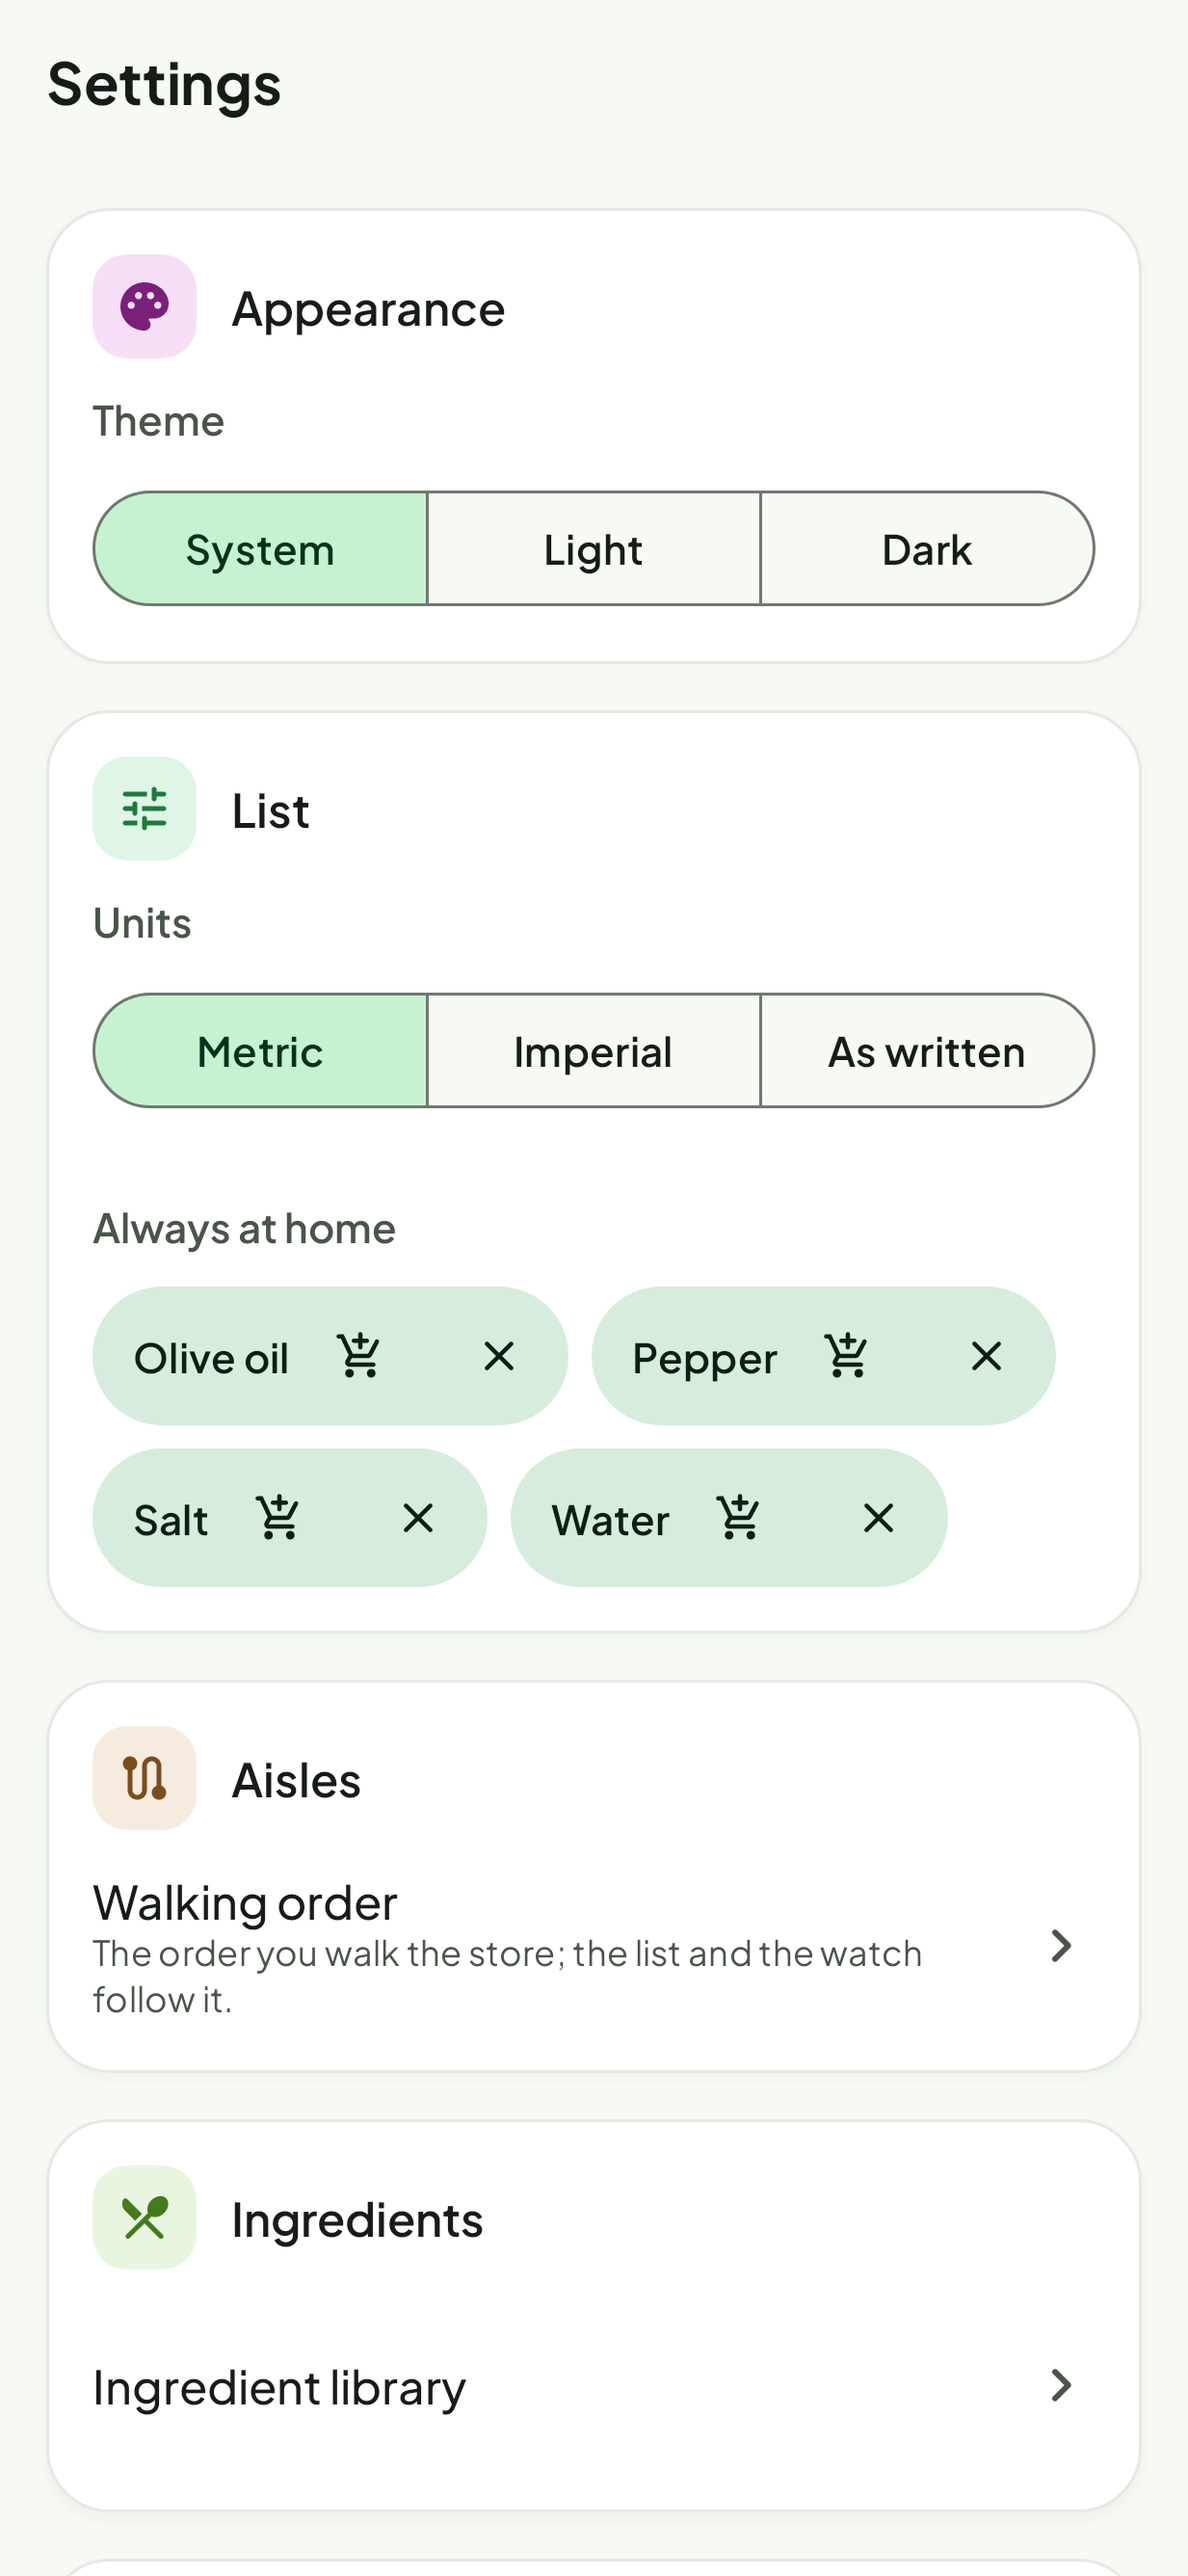
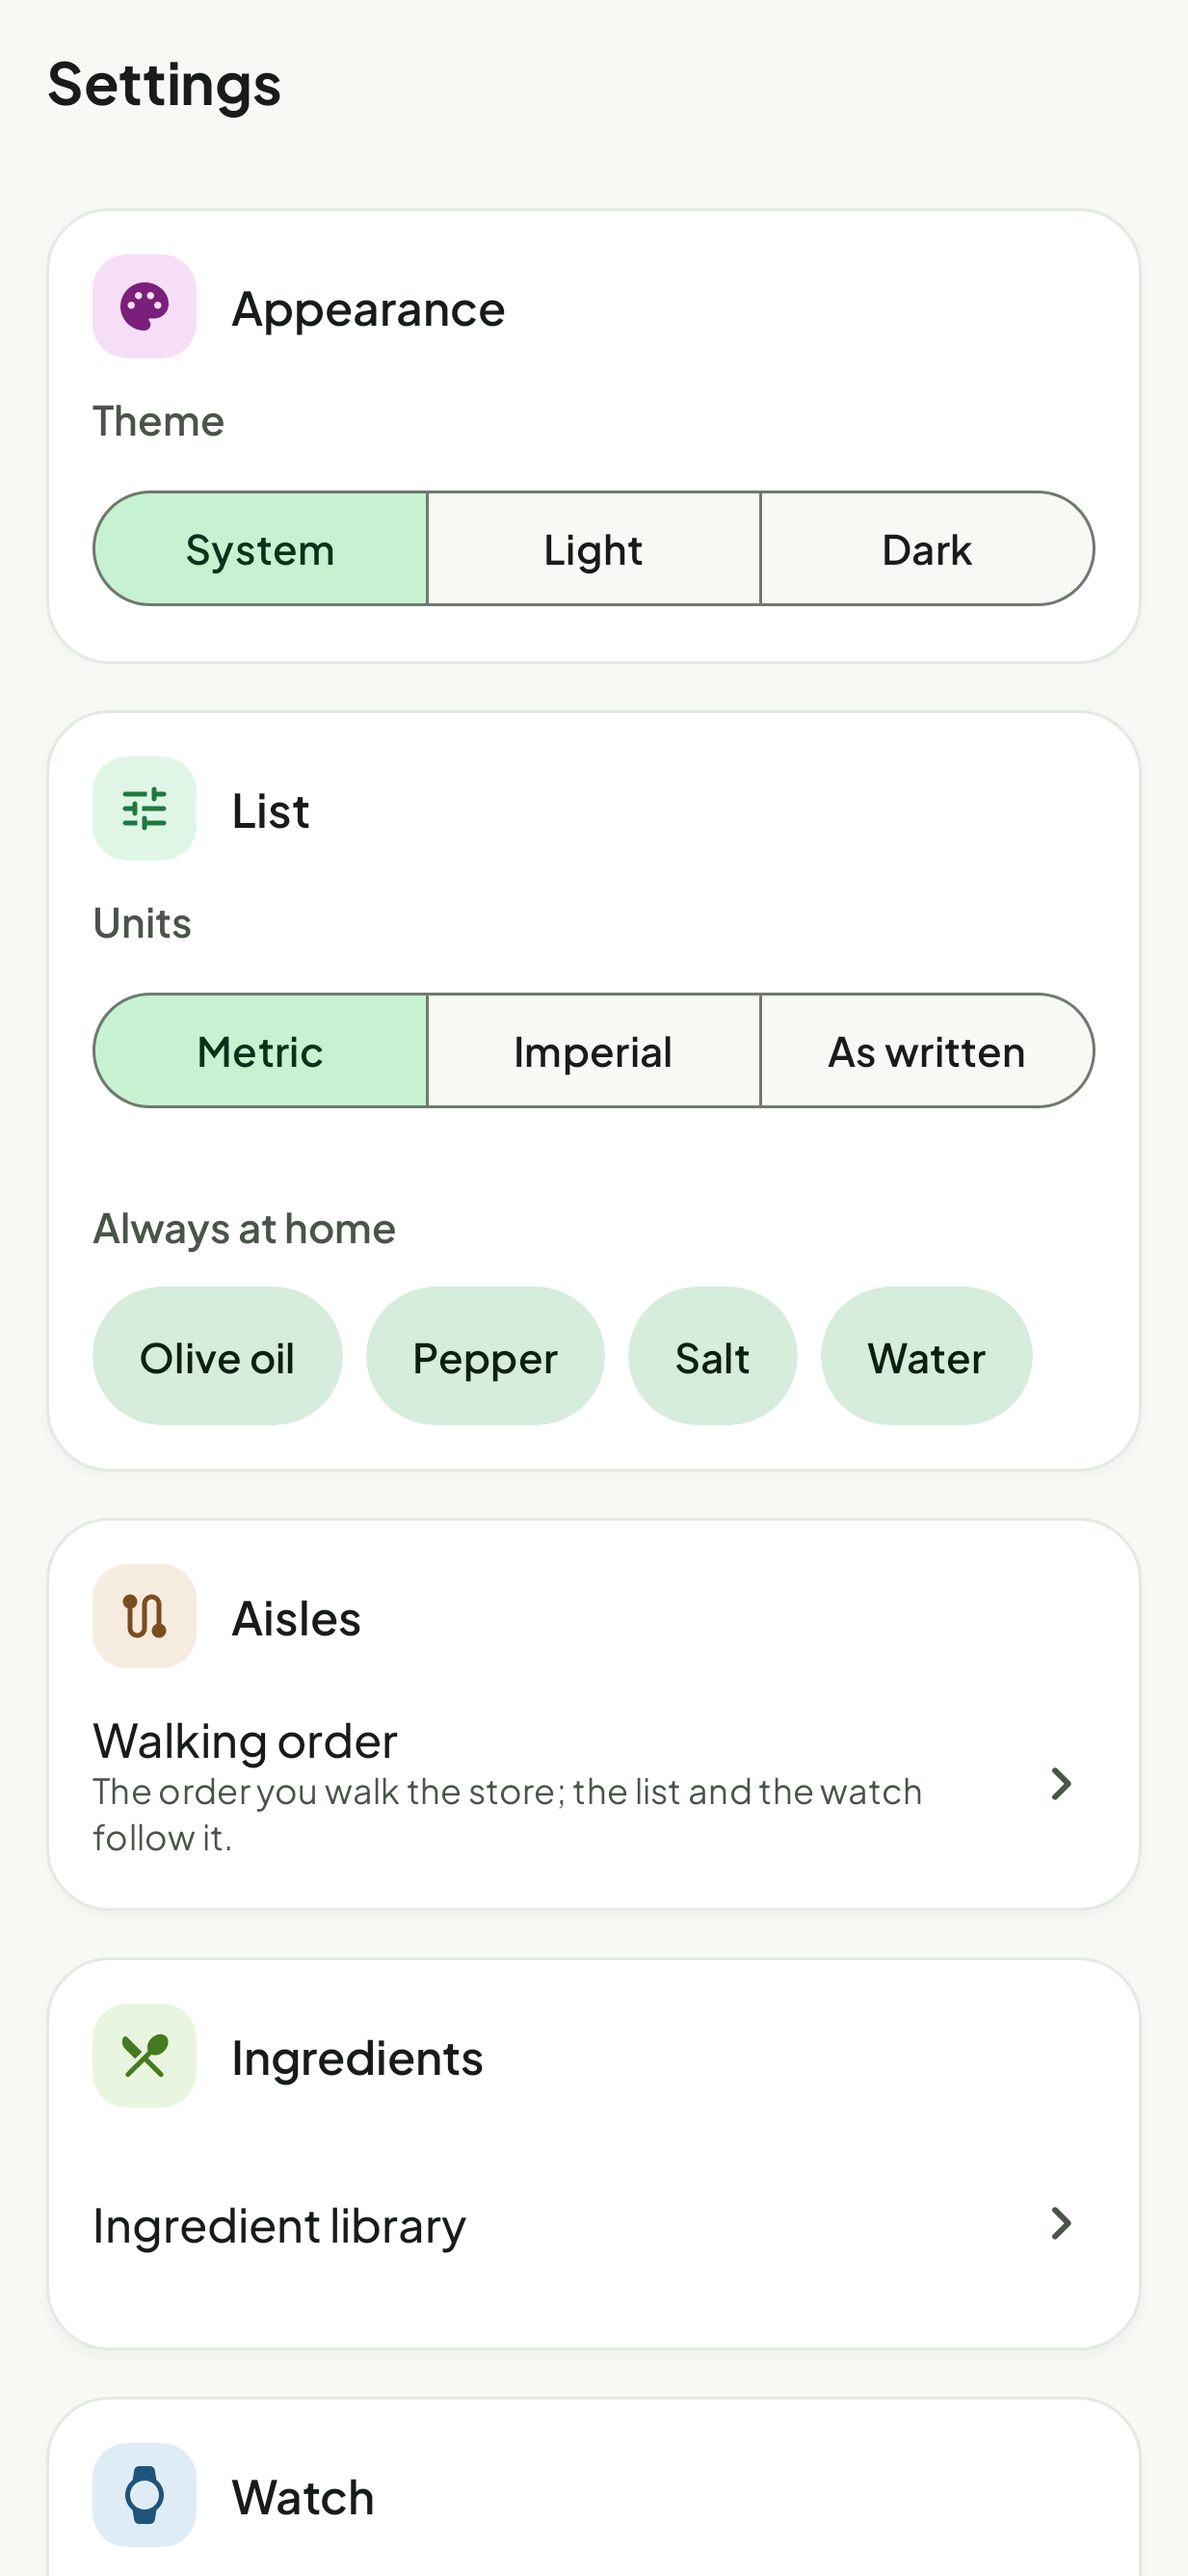
[AC.6] Always-at-home staples are plain chips with a menu
Claude-Session: https://claude.ai/code/session_01XHyUGxiCMSHv96zvVnb1yh

diff --git a/android/app/src/main/java/com/robert4lyf/hypershop/ui/settings/SettingsRoute.kt b/android/app/src/main/java/com/robert4lyf/hypershop/ui/settings/SettingsRoute.kt
@@ -32,10 +32,8 @@ import androidx.compose.foundation.shape.RoundedCornerShape
 import androidx.compose.foundation.text.KeyboardActions
 import androidx.compose.foundation.text.KeyboardOptions
 import androidx.compose.material.icons.Icons
-import androidx.compose.material.icons.rounded.AddShoppingCart
 import androidx.compose.material.icons.rounded.AutoAwesome
 import androidx.compose.material.icons.rounded.ChevronRight
-import androidx.compose.material.icons.rounded.Close
 import androidx.compose.material.icons.rounded.Code
 import androidx.compose.material.icons.rounded.ContentPaste
 import androidx.compose.material.icons.rounded.Error
@@ -456,32 +454,51 @@ private fun ListGroup(
     }
 }
 
-/** A staple: its name, and an × that is the only way to remove it (a full 48 dp target). */
+/**
+ * Step AC: a staple is one chip, its name only (no icons in it). A tap opens its two actions: "Add to list once"
+ * (ran out this time, still a staple) and "Remove" (no longer always at home).
+ */
 @Composable
 private fun StapleChip(
     name: String,
     onRanOut: () -> Unit = {},
     onRemove: () -> Unit,
 ) {
-    // A soft green, not grey: these are live settings, not disabled chips.
-    Surface(
-        shape = PillShape,
-        color = MaterialTheme.colorScheme.secondaryContainer,
-        contentColor = MaterialTheme.colorScheme.onSecondaryContainer,
-    ) {
-        Row(verticalAlignment = Alignment.CenterVertically, modifier = Modifier.padding(start = 14.dp)) {
-            Text(name.replaceFirstChar { it.uppercase() }, style = MaterialTheme.typography.labelLarge)
-            // Missing 5 of the review: out of it this once, without un-stapling it.
-            IconButton(onClick = onRanOut, modifier = Modifier.testTag("ran-out-$name")) {
-                Icon(
-                    Icons.Rounded.AddShoppingCart,
-                    contentDescription = "Ran out of $name: add to the list",
-                    modifier = Modifier.size(18.dp),
-                )
+    var menu by remember { mutableStateOf(false) }
+    Box {
+        // A soft green, not grey: these are live settings, not disabled chips.
+        Surface(
+            shape = PillShape,
+            color = MaterialTheme.colorScheme.secondaryContainer,
+            contentColor = MaterialTheme.colorScheme.onSecondaryContainer,
+            modifier =
+                Modifier
+                    .heightIn(min = 48.dp)
+                    .clip(PillShape)
+                    .clickable(onClickLabel = "Show actions", role = Role.Button) { menu = true }
+                    .testTag("staple-$name"),
+        ) {
+            Box(Modifier.heightIn(min = 48.dp).padding(horizontal = 16.dp), contentAlignment = Alignment.Center) {
+                Text(name.replaceFirstChar { it.uppercase() }, style = MaterialTheme.typography.labelLarge)
             }
-            IconButton(onClick = onRemove) {
-                Icon(Icons.Rounded.Close, contentDescription = "Remove $name", modifier = Modifier.size(18.dp))
-            }
+        }
+        DropdownMenu(expanded = menu, onDismissRequest = { menu = false }) {
+            DropdownMenuItem(
+                text = { Text("Add to list once") },
+                onClick = {
+                    menu = false
+                    onRanOut()
+                },
+                modifier = Modifier.testTag("ran-out-$name"),
+            )
+            DropdownMenuItem(
+                text = { Text("Remove") },
+                onClick = {
+                    menu = false
+                    onRemove()
+                },
+                modifier = Modifier.testTag("remove-staple-$name"),
+            )
         }
     }
 }

diff --git a/android/app/src/test/java/com/robert4lyf/hypershop/ui/settings/SettingsScreenTest.kt b/android/app/src/test/java/com/robert4lyf/hypershop/ui/settings/SettingsScreenTest.kt
@@ -67,8 +67,12 @@ class SettingsScreenTest {
     @Test
     fun groupsKeyFieldAndControls() {
         show()
-        compose.onNodeWithContentDescription("Remove salt").performClick()
+        // Step AC: a staple is one chip, no icons inside; a tap opens "Add to list once" and "Remove".
+        compose.onNodeWithTag("staple-salt").performScrollTo().performClick()
+        compose.onNodeWithTag("remove-staple-salt").performClick()
+        compose.onNodeWithTag("staple-salt").performClick()
         compose.onNodeWithTag("ran-out-salt").performClick()
+        compose.onNodeWithContentDescription("Remove salt").assertDoesNotExist()
         val list = compose.onNodeWithTag("settings")
         list.performScrollToNode(hasTestTag("watch-retry"))
         compose.onNodeWithTag("watch-retry").performClick()

diff --git a/docs/design/simple-ux.md b/docs/design/simple-ux.md
@@ -59,6 +59,7 @@ On the review, lines still to go on the list are counted as **N to add** ("4 to 
 | **Add item** (typed, a suggestion, a chip, a paste) | The list, pinned under its top row | `ListRepository.addByHand` (`manualAdd` that says the item, its contribution and aisle). One message per add: **"Added to Dairy & Eggs"**, or **"Added 3 items"** for a paste or last shop's items, with Undo (`takeBackHandAdds`: only what is unbought). The row is lit for a moment where it is; the list is not scrolled. Already on the list: **"Milk is already on your list"** with **Add 1 more** (or the typed amount), then **"Milk: now 2 on your list"** with Undo |
 | **Change amount** (item sheet) | Item sheet | one small form: the name, the amount (with its unit chips) and **Aisle: …** (a menu), then **Save changes**. An item in two kinds of unit opens on the one it is bought by (a count, else a weight, else a volume) and says "Also 200 g on the list, kept as it is"; saving leaves that part as it was. **More details › Category and usual pack** is the second small form |
 | Move an item to another aisle (its sheet) | Item sheet | Added only by hand: remembered without asking (`editItem` with always), **"Moved to Household. HyperShop will remember."**, Undo `undoRememberedMove` (the move and the override, as it was). From a recipe: "Always put X in Y" as before |
+| A staple's chip › **Add to list once** / **Remove** | Settings › List › Always at home | one chip per staple, its name only; a tap opens the two: `ranOut` (on the list this once, still a staple) and `removeStaple` |
 | **Usual items** (chips under the focused, empty **Add item** field: the regulars not on the list, eight at most, **Last shop's N items** last) | Add item field | a chip: `BuyAgain.add` (its usual amount, never doubled), Undo `BuyAgain.undo` (only unbought); long press or TalkBack action **Don't suggest**: `BuyAgain.hide` (Undo: the pin or the plain rules back). Typing hands over to the typed suggestions; no history, no chips |
 
 ## On the list

diff --git a/PROGRESS.md b/PROGRESS.md
@@ -577,7 +577,8 @@ words.
   reading (the existing `setAmount`; the two numbers come from the recipe's text, as the parser keeps only the
   first). An unreadable or zero amount reads "No amount found" with **Set amount** (the row's sheet, amount field
   first). The recipe's text is quoted only where it helps choose (`quoteHelps`). The sheet's banner drops "Check:".
-- [ ] AC.6 Always at home chips
+- [x] AC.6 Always at home chips. Each staple is one chip with its name only (the cart and × icons inside it went);
+  a tap opens a menu: "Add to list once" (the existing `ranOut`) and "Remove" (`removeStaple`). 48 dp targets kept.
 - [ ] AC.7 "Don't suggest" can be undone
 - [ ] AC.8 Denser list
 - [ ] AC.9 Small words
